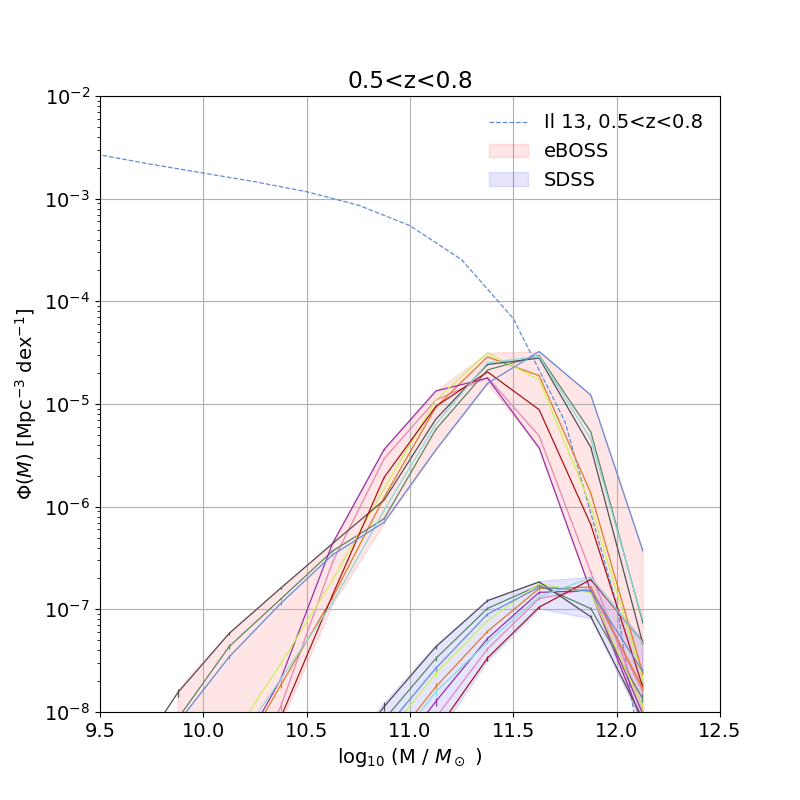
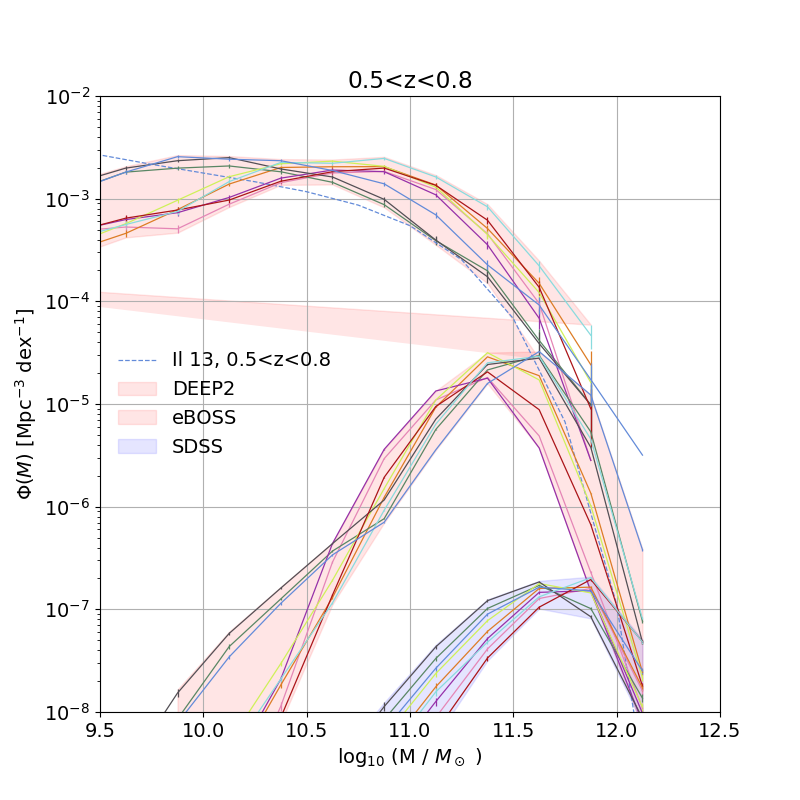
plot

Changed region(s): [[0.125, 0.125, 0.875, 0.5938]]

diff --git a/bin/bin_SMF/test.py b/bin/bin_SMF/test.py
@@ -1,4 +1,5 @@
 from lib_spm import *
+#imfs = ["Chabrier_ELODIE_", "Chabrier_MILES_", "Chabrier_STELIB_", "Kroupa_ELODIE_", "Kroupa_MILES_", "Kroupa_STELIB_",  "Salpeter_ELODIE_", "Salpeter_MILES_", "Salpeter_STELIB_" ]
 
 import astropy.cosmology as co
 aa=co.Planck15
@@ -105,6 +106,16 @@ area_sdss = 7900.
 area_boss = 10000.
 area_cosmos = 1.52
 
+# stats about DEEP2 run
+area1=0.60
+area2=0.62
+area3=0.90
+area4=0.66
+if z_min>=0.7:
+    area_deep2 = area1+area2+area3+area4
+else :
+    area_deep2 = 0.6
+
 
 def get_basic_stat_anyCat(catalog_name, z_name, z_err_name, name, zflg_val):
     catalog = fits.open(catalog_name)[1].data
@@ -162,7 +173,19 @@ def plot_smf_s(IMF="Chabrier_ELODIE_"):
 	#p.errorbar(x, y, yerr = ye, label=IMF+'SPIDERS', lw=1)
 
 
-xs,ys,yes = [],[],[]
+def get_basic_stat(catalog, z_name, z_flg, name, zflg_min, prefix):
+    catalog_zOk = (catalog[z_name] > z_min) & (catalog[z_flg]>=zflg_min) 
+    catalog_stat = (catalog_zOk) & (catalog[z_name] > z_min) & (catalog[z_name] < z_max) & (catalog['SSR']>0) & (catalog['TSR']>0) & (catalog['SSR']<=1.0001) & (catalog['TSR']<=1.0001)
+    catalog_sel = (catalog_stat) & (catalog[prefix+'stellar_mass'] < 10**14. ) & (catalog[prefix+'stellar_mass'] >= 10**5. )  & (catalog[prefix+'stellar_mass'] <= catalog[prefix+'stellar_mass_up_1sig'] ) & (catalog[prefix+'stellar_mass'] >= catalog[prefix+'stellar_mass_low_1sig'] ) & (-n.log10(catalog[prefix+'stellar_mass_low_1sig'])  + n.log10(catalog[prefix+'stellar_mass_up_1sig']) < 0.6 	)
+    l_o2 = lineSelection(catalog, "O2_3728") & catalog_stat
+    l_o3 = lineSelection(catalog, "O3_5007") & catalog_stat
+    l_hb = lineSelection(catalog, "H1_4862") & catalog_stat
+    m_catalog = n.log10(catalog[prefix+'stellar_mass'])
+    w_catalog = 1. / (catalog['TSR'] * catalog['SSR'])
+    #print name, '& $',len(catalog), "$ & $", ld(catalog_zOk),"$ & $", ld(catalog_stat), "\\;(", ld(catalog_sel),")$ & $", ld(l_o2), "\\;(", ld(catalog_sel & l_o2),")$ & $", ld(l_o3), "\\;(", ld(catalog_sel & l_o3),")$ & $", ld(l_hb), "\\;(", ld(catalog_sel & l_hb),")$ \\\\"
+    return catalog_sel, m_catalog, w_catalog, l_o2, l_o3, l_hb
+    
+
 
 p.figure(1, (8,8))
 if z_min==0.2:
@@ -172,43 +195,32 @@ if z_min==0.5:
 if z_min==0.8:
 	p.plot(mbins, smf0811(10**mbins), label='Il 13, 0.8<z<1.1', ls='dashed')
 
-# BOSS eBOSS plot
-x, y, ye = plot_smf_b("Chabrier_ELODIE_")
-xs.append(x)
-ys.append(y)
-yes.append(ye)
-x, y, ye = plot_smf_b("Chabrier_MILES_")
-xs.append(x)
-ys.append(y)
-yes.append(ye)
-x, y, ye = plot_smf_b("Chabrier_STELIB_")
-xs.append(x)
-ys.append(y)
-yes.append(ye)
-x, y, ye = plot_smf_b("Kroupa_ELODIE_")
-xs.append(x)
-ys.append(y)
-yes.append(ye)
-x, y, ye = plot_smf_b("Kroupa_MILES_")
-xs.append(x)
-ys.append(y)
-yes.append(ye)
-x, y, ye = plot_smf_b("Kroupa_STELIB_")
-xs.append(x)
-ys.append(y)
-yes.append(ye)
-x, y, ye = plot_smf_b("Salpeter_ELODIE_")
-xs.append(x)
-ys.append(y)
-yes.append(ye)
-x, y, ye = plot_smf_b("Salpeter_MILES_")
-xs.append(x)
-ys.append(y)
-yes.append(ye)
-x, y, ye = plot_smf_b("Salpeter_STELIB_")
-xs.append(x)
-ys.append(y)
-yes.append(ye)
+# DEEP2 lines
+xs,ys,yes = [],[],[]
+for prefix in imfs :
+	deep2_sel, deep2_m, deep2_w, deep2_o2, deep2_o3, deep2_hb = get_basic_stat(deep2, 'ZBEST', 'ZQUALITY', 'DEEP2', 2., prefix)
+	x, y, ye = get_hist(deep2_m[deep2_sel], weights = deep2_w[deep2_sel]/(dlog10m*n.log(10)*area_deep2*volume_per_deg2_val), mbins = mbins)
+	p.errorbar(x, y, yerr = ye)
+	xs.append(x)
+	ys.append(y)
+	yes.append(ye)
+
+xs  = n.array(xs )
+ys  = n.array(ys )
+yes = n.array(yes)
+
+y_up  = ys+yes
+y_low = ys-yes
+
+p.fill_between(xs[0], y1=n.min(y_low, axis=0), y2=n.max(y_up, axis=0), color='r', alpha=0.1, label='DEEP2')
+
+# BOSS eBOSS lines
+xs,ys,yes = [],[],[]
+for prefix in imfs :
+	x, y, ye = plot_smf_b(prefix)
+	xs.append(x)
+	ys.append(y)
+	yes.append(ye)
 
 xs  = n.array(xs )
 ys  = n.array(ys )
@@ -222,43 +234,11 @@ p.fill_between(xs[0], y1=n.min(y_low, axis=0), y2=n.max(y_up, axis=0), color='r'
 # SDSS 
 
 xs,ys,yes = [],[],[]
-
-x, y, ye = plot_smf_s("Chabrier_ELODIE_")
-xs.append(x)
-ys.append(y)
-yes.append(ye)
-x, y, ye = plot_smf_s("Chabrier_MILES_")
-xs.append(x)
-ys.append(y)
-yes.append(ye)
-x, y, ye = plot_smf_s("Chabrier_STELIB_")
-xs.append(x)
-ys.append(y)
-yes.append(ye)
-x, y, ye = plot_smf_s("Kroupa_ELODIE_")
-xs.append(x)
-ys.append(y)
-yes.append(ye)
-x, y, ye = plot_smf_s("Kroupa_MILES_")
-xs.append(x)
-ys.append(y)
-yes.append(ye)
-x, y, ye = plot_smf_s("Kroupa_STELIB_")
-xs.append(x)
-ys.append(y)
-yes.append(ye)
-x, y, ye = plot_smf_s("Salpeter_ELODIE_")
-xs.append(x)
-ys.append(y)
-yes.append(ye)
-x, y, ye = plot_smf_s("Salpeter_MILES_")
-xs.append(x)
-ys.append(y)
-yes.append(ye)
-x, y, ye = plot_smf_s("Salpeter_STELIB_")
-xs.append(x)
-ys.append(y)
-yes.append(ye)
+for prefix in imfs :
+	x, y, ye = plot_smf_s(prefix)
+	xs.append(x)
+	ys.append(y)
+	yes.append(ye)
 
 xs  = n.array(xs )
 ys  = n.array(ys )
@@ -281,136 +261,4 @@ p.grid()
 p.savefig(os.path.join(out_dir, "firefly_SMFs_BOSS_"+str(z_min)+'_z_'+str(z_max)+".png" ))
 p.clf()
 
-
-#p.figure(1, (8,8))
-#p.plot(mbins, smf01(10**mbins), label='Ilbert 13, 0.2<z<0.5', ls='dashed')
-
-#plot_smf_s("Chabrier_ELODIE_")
-#plot_smf_s("Chabrier_MILES_")
-#plot_smf_s("Chabrier_STELIB_")
-#plot_smf_s("Kroupa_ELODIE_")
-#plot_smf_s("Kroupa_MILES_")
-#plot_smf_s("Kroupa_STELIB_")
-#plot_smf_s("Salpeter_ELODIE_")
-#plot_smf_s("Salpeter_MILES_")
-#plot_smf_s("Salpeter_STELIB_")
-##plot_smf_spiders("Chabrier_ELODIE_")
-
-#p.title(str(z_min)+'<z<'+str(z_max)+' SDSS')
-#p.xlabel(r'$\log_{10}$(M / $M_\odot$ )')
-#p.ylabel(r'$\Phi(M)$ [Mpc$^{-3}$ dex$^{-1}$]')
-#p.yscale('log')
-#p.legend(loc=0, frameon = False)
-#p.ylim((1e-8, 1e-2))
-#p.xlim((9.5, 12.5))
-#p.grid()
-#p.savefig(os.path.join(out_dir, "firefly_SMFs_SDSS_"+str(z_min)+'_z_'+str(z_max)+".png" ))
-#p.clf()
-
-sys.exit()
-
-sdss12_sel, sdss12_m, sdss12_w = get_basic_stat_DR12(boss_12_portSF_kr, 'Z', 'Z_ERR', 'Portsmouth SF Kroupa   & BOSS & 12 ', 0.)
-sdss12_sel, sdss12_m, sdss12_w = get_basic_stat_DR12(boss_12_portPA_kr, 'Z', 'Z_ERR', 'Portsmouth Passive Kroupa   & BOSS & 12 ', 0.)
-sdss12_sel, sdss12_m, sdss12_w = get_basic_stat_DR12(boss_12_portSF_sa, 'Z', 'Z_ERR', 'Portsmouth SF Salpeter & BOSS & 12 ', 0.)
-
-
-sdss12_sel, sdss12_m, sdss12_w = get_basic_stat_DR14(sdss, 'Z', 'Z_ERR', 'CLASS', 'ZWARNING', 'Chabrier ELODIE & SDSS & 14 ', 0., "Chabrier_ELODIE_")
-sdss12_sel, sdss12_m, sdss12_w = get_basic_stat_DR14(sdss, 'Z', 'Z_ERR', 'CLASS', 'ZWARNING', 'Chabrier MILES  & SDSS & 14 ', 0., "Chabrier_MILES_")
-sdss12_sel, sdss12_m, sdss12_w = get_basic_stat_DR14(sdss, 'Z', 'Z_ERR', 'CLASS', 'ZWARNING', 'Chabrier STELIB & SDSS & 14 ', 0., "Chabrier_STELIB_")
-sdss12_sel, sdss12_m, sdss12_w = get_basic_stat_DR14(sdss, 'Z', 'Z_ERR', 'CLASS', 'ZWARNING', 'Kroupa ELODIE   & SDSS & 14 ', 0., "Kroupa_ELODIE_")
-sdss12_sel, sdss12_m, sdss12_w = get_basic_stat_DR14(sdss, 'Z', 'Z_ERR', 'CLASS', 'ZWARNING', 'Kroupa MILES    & SDSS & 14 ', 0., "Kroupa_MILES_")
-sdss12_sel, sdss12_m, sdss12_w = get_basic_stat_DR14(sdss, 'Z', 'Z_ERR', 'CLASS', 'ZWARNING', 'Kroupa STELIB   & SDSS & 14 ', 0., "Kroupa_STELIB_")
-sdss12_sel, sdss12_m, sdss12_w = get_basic_stat_DR14(sdss, 'Z', 'Z_ERR', 'CLASS', 'ZWARNING', 'Salpeter ELODIE & SDSS & 14 ', 0., "Salpeter_ELODIE_")
-sdss12_sel, sdss12_m, sdss12_w = get_basic_stat_DR14(sdss, 'Z', 'Z_ERR', 'CLASS', 'ZWARNING', 'Salpeter MILES  & SDSS & 14 ', 0., "Salpeter_MILES_")
-sdss12_sel, sdss12_m, sdss12_w = get_basic_stat_DR14(sdss, 'Z', 'Z_ERR', 'CLASS', 'ZWARNING', 'Salpeter STELIB & SDSS & 14 ', 0., "Salpeter_STELIB_")
-
-sdss12_sel, sdss12_m, sdss12_w = get_basic_stat_DR12(sdss_12_portSF_kr, 'Z', 'Z_ERR', 'Portsmouth SF Kroupa   & SDSS & 12 ', 0.)
-sdss12_sel, sdss12_m, sdss12_w = get_basic_stat_DR12(sdss_12_portPA_kr, 'Z', 'Z_ERR', 'Portsmouth Passive Kroupa   & SDSS & 12 ', 0.)
-sdss12_sel, sdss12_m, sdss12_w = get_basic_stat_DR12(sdss_12_portSF_sa, 'Z', 'Z_ERR', 'Portsmouth SF Salpeter & SDSS & 12 ', 0.)
-
-
-
-x, y, ye = get_hist(boss14_m[boss14_sel], weights = boss14_w[boss14_sel]/(dlog10m*n.log(10)*area_boss14*volume_per_deg2_val), mbins = mbins)
-p.errorbar(x, y, yerr = ye, label='BOSS14', lw=0.5)
-p.title(str(z_min)+'<z<'+str(z_max))
-p.xlabel(r'$\log_{10}$ (stellar mass '+imf+r" / $M_\odot$ )")
-p.ylabel(r'$\Phi(M)$ [Mpc$^{-3}$ dex$^{-1}$]')
-p.yscale('log')
-p.legend(loc=0, frameon = False)
-p.ylim((1e-8, 1e-2))
-p.xlim((9.5, 12.5))
-p.grid()
-p.savefig(os.path.join(out_dir, "SDSS_SMF_"+imf+"_"+str(z_min)+'_z_'+str(z_max)+".png" ))
-p.clf()
-
-sys.exit()
-
-def plotMF_raw(imf='kroupa'):
-    sdss14_sel, sdss14_m, sdss14_w = get_basic_stat_FF(sdss14, 'Z', 'Z_ERR', 'ZWARNING', 'SDSS14', 0., imf=imf)
-    boss14_sel, boss14_m, boss14_w = get_basic_stat_FF(boss14, 'Z_NOQSO', 'Z_ERR_NOQSO', 'ZWARNING_NOQSO', 'BOSS14', 0., imf=imf)
-    sdss12_sel, sdss12_m, sdss12_w = get_basic_stat_DR12(sdss12, 'Z', 'Z_ERR', 'SDSS12', 0.)
-    boss12_sel, boss12_m, boss12_w = get_basic_stat_DR12(boss12, 'Z', 'Z_ERR', 'BOSS12', 0.)
-
-    
-    dlog10m = 0.25
-    mbins = n.arange(8,12.5,dlog10m)
-    
-    p.figure(1, (8,8))
-    p.plot(mbins, smf01(10**mbins), label='Ilbert 13, 0.2<z<0.5', ls='dashed')
-    
-    x, y, ye = get_hist(sdss14_m[sdss14_sel], weights = sdss14_w[sdss14_sel]/(dlog10m*n.log(10)*area_sdss14*volume_per_deg2_val), mbins = mbins)
-    p.errorbar(x, y, yerr = ye, label='SDSS14', lw=1)
-    x, y, ye = get_hist(sdss12_m[sdss12_sel], weights = sdss12_w[sdss12_sel]/(dlog10m*n.log(10)*area_sdss12*volume_per_deg2_val), mbins = mbins)
-    p.errorbar(x, y, yerr = ye, label='SDSS12', lw=1)
-    x, y, ye = get_hist(boss12_m[boss12_sel], weights = boss12_w[boss12_sel]/(dlog10m*n.log(10)*area_boss12*volume_per_deg2_val), mbins = mbins)
-    p.errorbar(x, y, yerr = ye, label='BOSS12', lw=0.5)
-    x, y, ye = get_hist(boss14_m[boss14_sel], weights = boss14_w[boss14_sel]/(dlog10m*n.log(10)*area_boss14*volume_per_deg2_val), mbins = mbins)
-    p.errorbar(x, y, yerr = ye, label='BOSS14', lw=0.5)
-    p.title(str(z_min)+'<z<'+str(z_max))
-    p.xlabel(r'$\log_{10}$ (stellar mass '+imf+r" / $M_\odot$ )")
-    p.ylabel(r'$\Phi(M)$ [Mpc$^{-3}$ dex$^{-1}$]')
-    p.yscale('log')
-    p.legend(loc=0, frameon = False)
-    p.ylim((1e-8, 1e-2))
-    p.xlim((9.5, 12.5))
-    p.grid()
-    p.savefig(os.path.join(out_dir, "SDSS_SMF_"+imf+"_"+str(z_min)+'_z_'+str(z_max)+".png" ))
-    p.clf()
-
-import time
-t0 = time.time()
-id14 = n.arange(len(sdss14))
-id12_2_14 = n.array([ id14[(sdss14['PLATE'] == sdss12[id12]['PLATE'])&(sdss14['MJD'] == sdss12[id12]['MJD'])&(sdss14['FIBERID'] == sdss12[id12]['FIBERID'])][0] for id12 in n.arange(5000)]) # len(sdss12)) ])
-print time.time() - t0
-
-m14_i = sdss14['stellar_mass_'+imf][id12_2_14]
-m12_i = sdss12['LOGMASS'][n.arange(5000)]
-
-ok = (m12_i >8 )&(m12_i < 13 )&(m14_i >8 )&(m14_i < 13 )
-m14 = m14_i[ok]
-m12 = m12_i[ok]
-mms = n.arange(8,13,0.02)
-
-outP = n.polyfit(m12, m14-m12, deg=1)
-p.plot(mms, n.polyval(outP, mms), 'm')
-outP = n.polyfit(m12, m14-m12, deg=2)
-p.plot(mms, n.polyval(outP, mms), 'm')
-p.plot(m12, m14-m12, 'b,')
-p.axhline(n.mean(m14-m12), color='k')
-p.xlabel('log(mass) dr12')
-p.ylabel(r'$\Delta \log$(mass) dr14-dr12')
-p.xlim((8,13.))
-p.ylim((-2, 2))
-p.grid()
-p.savefig(os.path.join(out_dir, "SDSS_mass_comparison"+imf+"_"+str(z_min)+'_z_'+str(z_max)+".png" ))
-p.clf()
-
-# for each object in the catalog, assign the corresponding stellar mass from firefly
-# match in plate mjd fiberid using the SDSS DR12 as a reference i.e. make a DR12+DR14 catalog.
-# fraction of objects with a more accurate stellar mass estimates : error is smaller.
-# match DR14 wiht DR12
-# extract mean SN per pixel in a spectrum and select objects that should have a better nass estimate.
-# 
-
-plotMF_raw(imf='salpeter')
 
